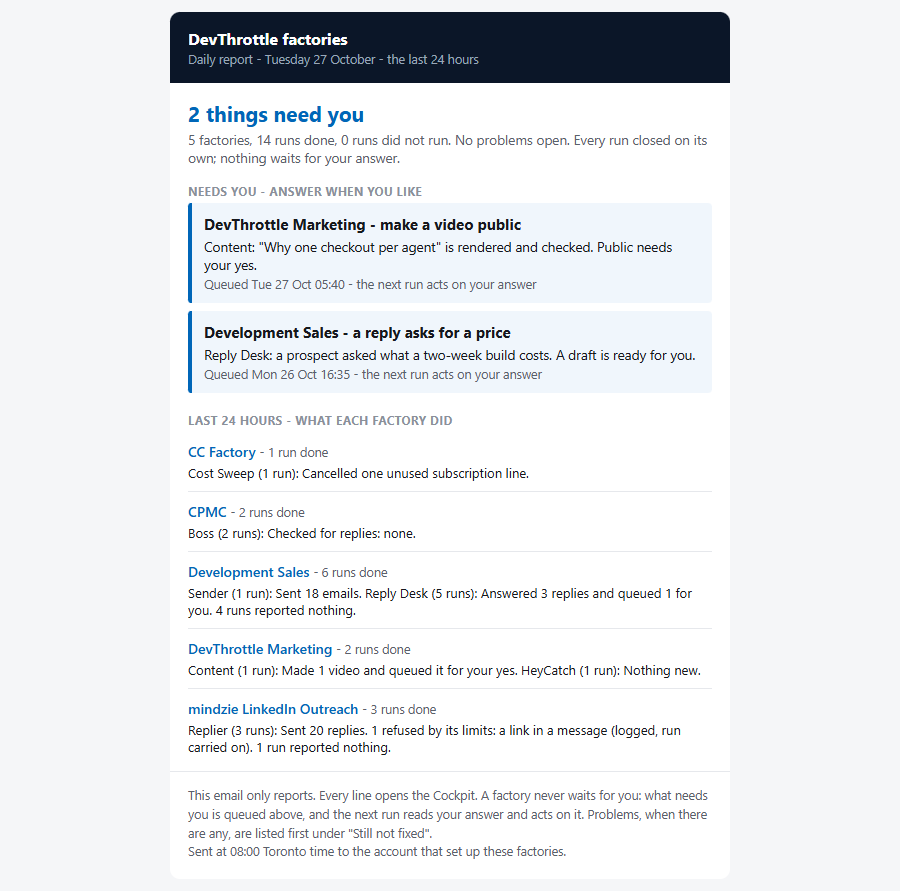
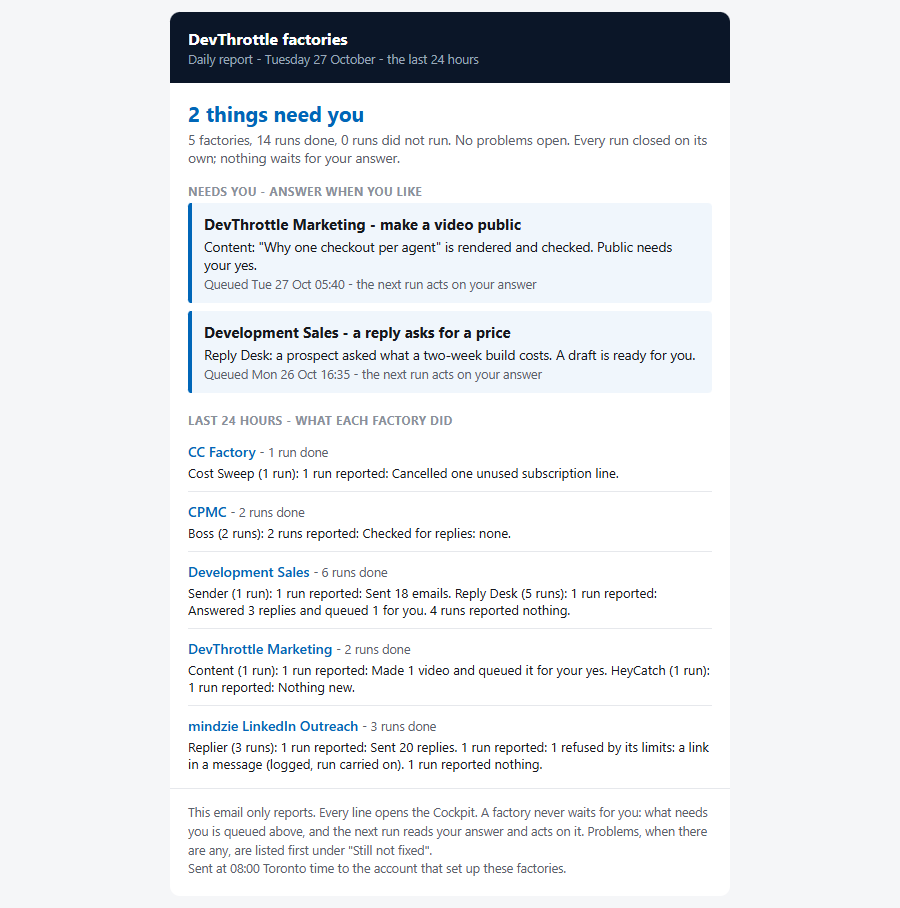
Preserve every factory run report in daily email

diff --git a/docs/qa/factory-control/daily-email/composed-daily-0800.html b/docs/qa/factory-control/daily-email/composed-daily-0800.html
@@ -42,23 +42,23 @@ Last 24 hours - what each factory did
 <table role="presentation" width="100%" cellpadding="0" cellspacing="0" border="0" style="font-family:'Segoe UI',Arial,sans-serif;">
 <tr><td style="padding:10px 0;border-bottom:1px solid #E6E8EC;">
 <div style="font-size:14px;"><a href="https://gateway.devthrottle.com/factories/cc-factory" style="color:#0066B8;text-decoration:none;font-weight:600;">CC Factory</a> <span style="color:#5A616B;font-size:12.5px;">- 1 run done</span></div>
-<div style="font-size:13px;color:#16181D;padding-top:3px;">Cost Sweep (1 run): Cancelled one unused subscription line.</div>
+<div style="font-size:13px;color:#16181D;padding-top:3px;">Cost Sweep (1 run): 1 run reported: Cancelled one unused subscription line.</div>
 </td></tr>
 <tr><td style="padding:10px 0;border-bottom:1px solid #E6E8EC;">
 <div style="font-size:14px;"><a href="https://gateway.devthrottle.com/factories/cpmc" style="color:#0066B8;text-decoration:none;font-weight:600;">CPMC</a> <span style="color:#5A616B;font-size:12.5px;">- 2 runs done</span></div>
-<div style="font-size:13px;color:#16181D;padding-top:3px;">Boss (2 runs): Checked for replies: none.</div>
+<div style="font-size:13px;color:#16181D;padding-top:3px;">Boss (2 runs): 2 runs reported: Checked for replies: none.</div>
 </td></tr>
 <tr><td style="padding:10px 0;border-bottom:1px solid #E6E8EC;">
 <div style="font-size:14px;"><a href="https://gateway.devthrottle.com/factories/development-sales" style="color:#0066B8;text-decoration:none;font-weight:600;">Development Sales</a> <span style="color:#5A616B;font-size:12.5px;">- 6 runs done</span></div>
-<div style="font-size:13px;color:#16181D;padding-top:3px;">Sender (1 run): Sent 18 emails. Reply Desk (5 runs): Answered 3 replies and queued 1 for you. 4 runs reported nothing.</div>
+<div style="font-size:13px;color:#16181D;padding-top:3px;">Sender (1 run): 1 run reported: Sent 18 emails. Reply Desk (5 runs): 1 run reported: Answered 3 replies and queued 1 for you. 4 runs reported nothing.</div>
 </td></tr>
 <tr><td style="padding:10px 0;border-bottom:1px solid #E6E8EC;">
 <div style="font-size:14px;"><a href="https://gateway.devthrottle.com/factories/devthrottle-marketing" style="color:#0066B8;text-decoration:none;font-weight:600;">DevThrottle Marketing</a> <span style="color:#5A616B;font-size:12.5px;">- 2 runs done</span></div>
-<div style="font-size:13px;color:#16181D;padding-top:3px;">Content (1 run): Made 1 video and queued it for your yes. HeyCatch (1 run): Nothing new.</div>
+<div style="font-size:13px;color:#16181D;padding-top:3px;">Content (1 run): 1 run reported: Made 1 video and queued it for your yes. HeyCatch (1 run): 1 run reported: Nothing new.</div>
 </td></tr>
 <tr><td style="padding:10px 0;">
 <div style="font-size:14px;"><a href="https://gateway.devthrottle.com/factories/mindzie-outreach" style="color:#0066B8;text-decoration:none;font-weight:600;">mindzie LinkedIn Outreach</a> <span style="color:#5A616B;font-size:12.5px;">- 3 runs done</span></div>
-<div style="font-size:13px;color:#16181D;padding-top:3px;">Replier (3 runs): Sent 20 replies. 1 refused by its limits: a link in a message (logged, run carried on). 1 run reported nothing.</div>
+<div style="font-size:13px;color:#16181D;padding-top:3px;">Replier (3 runs): 1 run reported: Sent 20 replies. 1 run reported: 1 refused by its limits: a link in a message (logged, run carried on). 1 run reported nothing.</div>
 </td></tr>
 </table>
 </td></tr>

diff --git a/src/CcDirector.Gateway.UnitTests/Factory/FactoryEmailTests.cs b/src/CcDirector.Gateway.UnitTests/Factory/FactoryEmailTests.cs
@@ -873,7 +873,7 @@ public sealed class FactoryEmailTests : IDisposable
         // one reported nothing; the Scout's one run reported nothing at all.
         Job("cj_send", "Morning send", "outreach", "sender");
         Job("cj_scan", "Night scan", "research", "scout");
-        AppendRun("cj_send", Run("s1", TorontoTime(2026, 10, 10, 9), CronRunResults.Ok, reason: "sent 18 emails"));
+        AppendRun("cj_send", Run("s1", TorontoTime(2026, 10, 10, 9), CronRunResults.Ok, reason: "  sent 18 emails  "));
         AppendRun("cj_send", Run("s2", TorontoTime(2026, 10, 10, 13), CronRunResults.Ok, reason: "answered 3 replies and queued 1 for you."));
         AppendRun("cj_send", Run("s3", TorontoTime(2026, 10, 10, 17), CronRunResults.Ok, reason: "sent 18 emails"));
         AppendRun("cj_send", Run("s4", TorontoTime(2026, 10, 10, 21), CronRunResults.Ok));
@@ -886,29 +886,32 @@ public sealed class FactoryEmailTests : IDisposable
         var (problems, days) = Service().ProblemsAndFactoryDays(TenantId.Local, slot.DayStartUtc, slot.BoundaryUtc, slot.CutoffUtc);
         var email = FactoryEmailComposer.Compose(new FactoryEmailInput(slot, Toronto, problems.Problems, days, Factories(), "https://gateway.example.test"));
 
-        // Assert: the day carries each run's line, oldest first, and the email quotes them once each, word for word.
+        // Assert: the fold trims surrounding whitespace; the email preserves each line and counts repeated reports.
         var outreach = days.Single(d => d.Factory == "outreach");
         Assert.Equal(new[] { "sent 18 emails", "answered 3 replies and queued 1 for you.", "sent 18 emails", null },
             outreach.DoneRuns.Select(r => r.Reported));
-        Assert.Contains("Sender (4 runs): sent 18 emails. answered 3 replies and queued 1 for you. 1 run reported nothing.", email.Text);
-        Assert.Contains("Scout (1 run): reported nothing.", email.Text);
+        Assert.Contains("Sender (4 runs): 2 runs reported: sent 18 emails. 1 run reported: answered 3 replies and queued 1 for you. 1 run reported nothing.", email.Text);
+        Assert.Contains("Scout (1 run): 1 run reported nothing.", email.Text);
         Assert.Contains("Outreach - 4 runs done", email.Text);
         Assert.DoesNotContain("before the window", email.Text);
     }
 
     [Fact]
-    public void Compose_ASeatWithManyDifferentLines_QuotesThreeAndPointsToTheFactoryPage()
+    public void Compose_ASeatWithManyDifferentLines_ShowsEveryLineAndItsRunCount()
     {
         var slot = FactoryEmailSlots.DueAt(TorontoTime(2026, 10, 11, 8, 5), Toronto)!;
         var day = new CronFactoryDayDto { Factory = "outreach", Done = 5 };
-        for (var i = 1; i <= 5; i++)
-            day.DoneRuns.Add(new() { Seat = "sender", JobName = "Send", FiredUtc = TorontoTime(2026, 10, 10, 8 + i), Reported = $"sent {i} emails" });
+        var reports = new[] { "sent 1 emails", "sent 2 emails", "sent 1 emails", "sent 3 emails", "sent 2 emails" };
+        for (var i = 0; i < reports.Length; i++)
+            day.DoneRuns.Add(new() { Seat = "sender", JobName = "Send", FiredUtc = TorontoTime(2026, 10, 10, 9 + i), Reported = reports[i] });
 
         var email = FactoryEmailComposer.Compose(new FactoryEmailInput(slot, Toronto, Array.Empty<CronRunProblemDto>(), new[] { day },
             Factories(), null));
 
-        Assert.Contains("Sender (5 runs): sent 1 emails. sent 2 emails. sent 3 emails. And 2 more lines on the factory page.", email.Text);
-        Assert.DoesNotContain("sent 4 emails", email.Text);
+        const string expected = "Sender (5 runs): 2 runs reported: sent 1 emails. 2 runs reported: sent 2 emails. 1 run reported: sent 3 emails.";
+        Assert.Contains(expected, email.Text);
+        Assert.Contains(expected, email.Html);
+        Assert.DoesNotContain("more lines on the factory page", email.Text);
     }
 
     [Fact]
@@ -1001,8 +1004,8 @@ public sealed class FactoryEmailTests : IDisposable
         foreach (var id in factories.Keys)
             Assert.Contains($"href=\"https://gateway.devthrottle.com/factories/{id}\"", email.Html);
         Assert.Contains("- 6 runs done</span>", email.Html);
-        Assert.Contains("Sender (1 run): Sent 18 emails. Reply Desk (5 runs): Answered 3 replies and queued 1 for you. 4 runs reported nothing.", email.Html);
-        Assert.Contains("Boss (2 runs): Checked for replies: none.", email.Html);
+        Assert.Contains("Sender (1 run): 1 run reported: Sent 18 emails. Reply Desk (5 runs): 1 run reported: Answered 3 replies and queued 1 for you. 4 runs reported nothing.", email.Html);
+        Assert.Contains("Boss (2 runs): 2 runs reported: Checked for replies: none.", email.Html);
         Assert.Contains("Sent at 08:00 Toronto time to the account that set up these factories.", email.Html);
         Assert.All(email.Html, c => Assert.True(c < 128, $"non-ASCII character {(int)c} in the email body"));
         Assert.All(email.Text, c => Assert.True(c < 128, $"non-ASCII character {(int)c} in the plain-text body"));

diff --git a/src/CcDirector.Gateway/Factory/Email/FactoryEmailComposer.cs b/src/CcDirector.Gateway/Factory/Email/FactoryEmailComposer.cs
@@ -108,9 +108,6 @@ public static class FactoryEmailComposer
     /// <summary>What a run that reported no line with its ok result is said to have done.</summary>
     public const string ReportedNothing = "reported nothing";
 
-    /// <summary>How many of one seat's reported lines a factory's line quotes before it points to the factory page.</summary>
-    public const int MaxLinesPerSeat = 3;
-
     /// <summary>Compose the email for <paramref name="input"/>'s slot.</summary>
     public static FactoryEmail Compose(FactoryEmailInput input)
     {
@@ -343,7 +340,8 @@ public static class FactoryEmailComposer
 
     /// <summary>
     /// What the factory's done runs did, seat by seat in the order they first ran: each seat's name and run count, then
-    /// the lines its runs reported, verbatim and once each. A run that reported nothing is said to have reported nothing.
+    /// every distinct reported line with the number of runs that reported it, in the order each line first appeared.
+    /// A run that reported nothing is counted.
     /// Never composed by a model.
     /// </summary>
     private static string WhatItDid(FactoryEmailInput input, CronFactoryDayDto d)
@@ -354,21 +352,21 @@ public static class FactoryEmailComposer
         foreach (var seat in d.DoneRuns.GroupBy(r => r.Seat, StringComparer.Ordinal))
         {
             var runs = seat.ToList();
-            var lines = runs.Where(r => r.Reported is not null).Select(r => r.Reported!).Distinct(StringComparer.Ordinal).ToList();
-            var silent = runs.Count(r => r.Reported is null);
+            var lines = runs.Select(r => r.Reported).OfType<string>()
+                .Where(line => !string.IsNullOrWhiteSpace(line)).Select(line => line.Trim())
+                .GroupBy(line => line, StringComparer.Ordinal);
+            var silent = runs.Count(r => string.IsNullOrWhiteSpace(r.Reported));
             var said = new StringBuilder($"{SeatName(input, d.Factory, seat.Key)} ({Count(runs.Count, "run")}):");
-            foreach (var line in lines.Take(MaxLinesPerSeat))
-                said.Append(' ').Append(Sentence(line));
-            if (lines.Count > MaxLinesPerSeat)
-                said.Append($" And {Count(lines.Count - MaxLinesPerSeat, "more line")} on the factory page.");
+            foreach (var line in lines)
+                said.Append(' ').Append(Count(line.Count(), "run")).Append(" reported: ").Append(Sentence(line.Key));
             if (silent > 0)
-                said.Append(lines.Count == 0 ? $" {Sentence(ReportedNothing)}" : $" {Count(silent, "run")} {ReportedNothing}.");
+                said.Append($" {Count(silent, "run")} {ReportedNothing}.");
             seats.Add(said.ToString());
         }
         return string.Join(" ", seats);
     }
 
-    // A reported line as a sentence: a full stop added when it has no ending of its own. Its words are not touched.
+    // A reported line keeps its words; surrounding whitespace is trimmed and a missing ending mark is added.
     private static string Sentence(string line)
     {
         var t = line.Trim();

diff --git a/docs/qa/factory-control/daily-email/README.md b/docs/qa/factory-control/daily-email/README.md
@@ -13,7 +13,8 @@ The owner approved the format on 26 October 2026 (Factories Run Alone mission): 
 Differences from the mockup, all deliberate:
 
 - Factories are listed in name order, not in the mockup's hand-picked order.
-- Each seat's part of a factory's line starts with its run count, for example "Reply Desk (5 runs):", so that
-  "4 runs reported nothing" has something to count against. The words after it are the runs' own reported lines,
-  verbatim; the mockup paraphrased them ("Sender sent 18 emails").
+- Each seat's part of a factory's line starts with its run count, for example "Reply Desk (5 runs):". It shows every
+  distinct reported line, in the order it first appeared, with the number of runs that reported it; runs with no line are
+  counted as "reported nothing". The reported words are preserved. Surrounding whitespace is trimmed and a full stop
+  is added when the line has no ending punctuation. The mockup paraphrased the reports ("Sender sent 18 emails").
 - The summary says "0 runs did not run", as the 08:00 email always has, where the mockup says "0 did not run".
